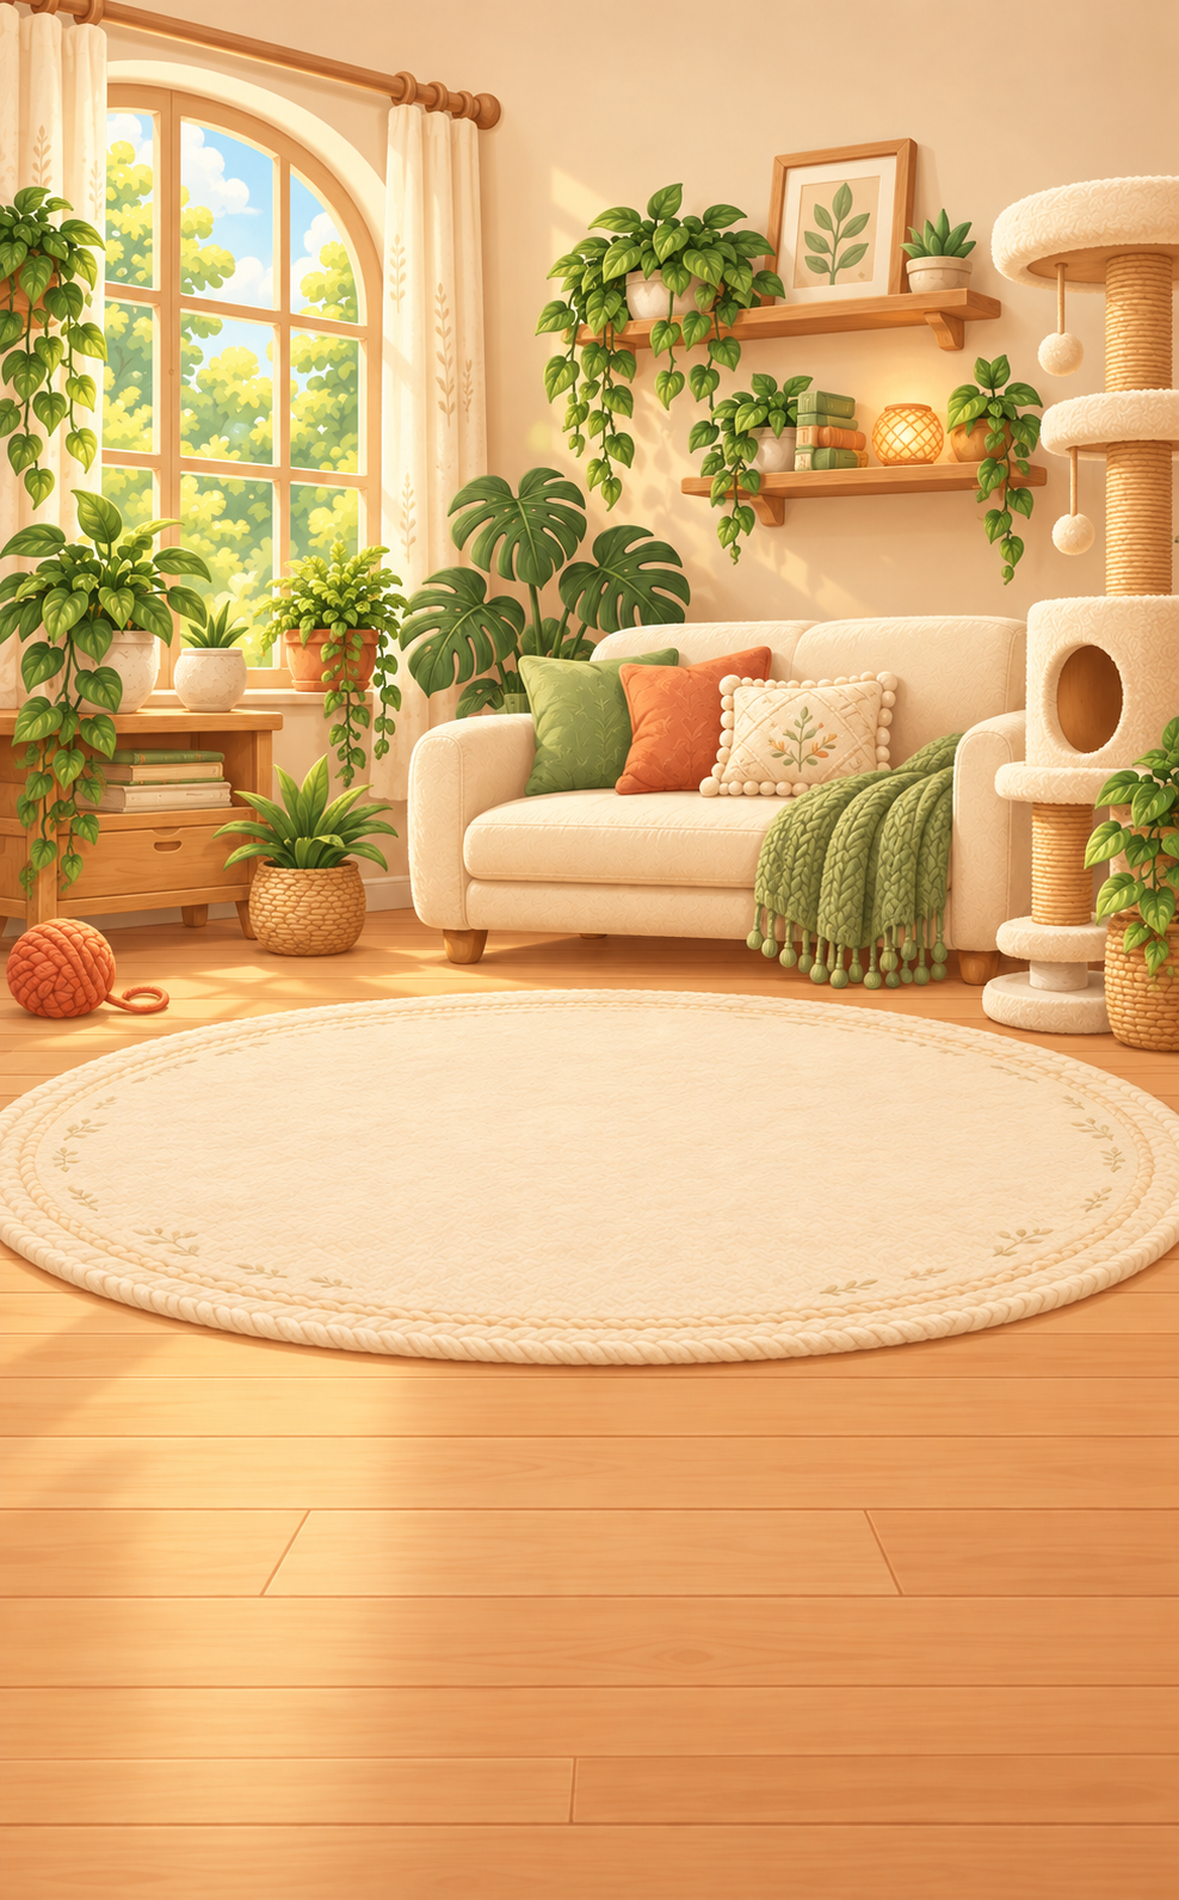
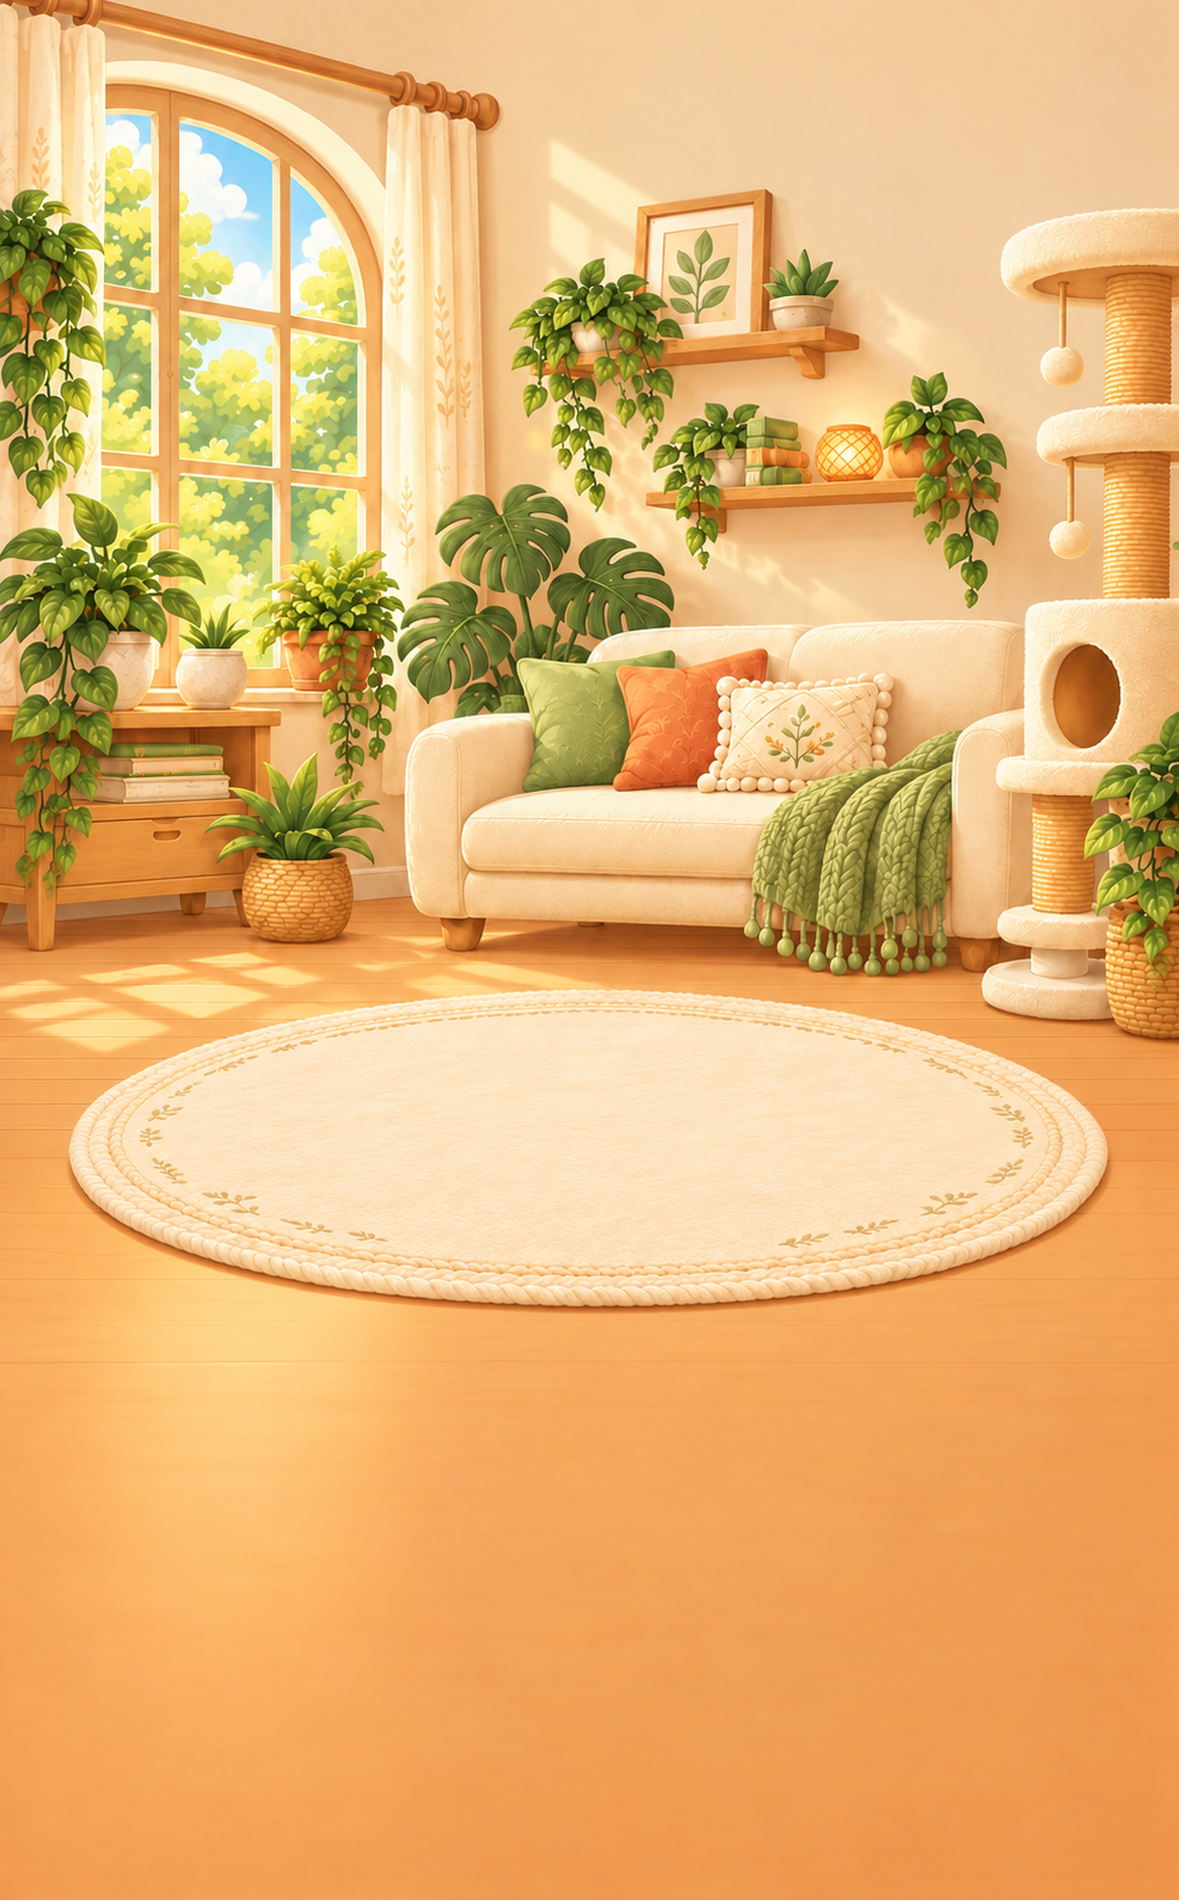
Extend home and encounter room backgrounds

diff --git a/assets/ui-records/provenance/prompts-bg.md b/assets/ui-records/provenance/prompts-bg.md
@@ -340,3 +340,31 @@ Prompt: Image1 is approved STYLE ONLY: soft rounded detailed painted storybook g
 Processing: Lanczos resize to exact dimensions; RGB opaque
 
 SHA256: 6bbbab99348fa2cebe759ede264ff99783e6c7146150592851edb8df63ed8cb7
+
+## UI v3 / bg/room-home.png
+
+Group C. Built-in image_gen. Generation 1, redo 0.
+Source: C:\Users\User\.codex\generated_images\01a17849-0ce3-7933-8ae2-427904148ed0\exec-e0da14fc-093d-4e7f-8028-1bb90daea87d.png
+
+Use case: stylized-concept, mobile game UI background. Generate new 1179x1900 portrait opaque illustration matching the existing room image (reference image 1), with warm cream, pale green, soft orange palette, rounded storybook forms, flat painted color and gentle upper-left light. Preserve same general room: window and curtains upper left, cozy cream sofa upper center-left, leafy plants, small bookshelf/shelf, cat tower toward upper right. Place all furniture/wall decor in upper 44% only; preserve a broad simple warm orange wooden floor below, almost no floorboard seams below 70%. A soft woven oval rug centered in floor and fully inside both side edges, modest width with visible floor left and right; keep center rug area empty for cat. Entire lower 15% must be completely flat low-contrast floor with no objects or seams. Uppermost 12% gentle uncluttered backdrop; upper-right wall area at 12-30% clear and plain for a UI button. Keep lower-right camera-button area clear. No cats, people, text, signs, labels, photorealism, lens blur, glare, strong shadows, tiny wood grain or fabric fibers. Full bleed edge-to-edge, opaque.
+Redo 1: Edit the provided room illustration. Change ONLY the rug width and the lower floor. Shrink the complete oval rug to about78% of canvas width and center it so a clearly visible strip of orange floor remains at both left and right edges. Preserve the same rug texture and design. Make wooden floor seams below vertical70% almost invisible, blending into a smooth low-contrast warm orange floor through the bottom edge. Preserve all windows, furniture, plants, shelves, colors, positions and style exactly. No new objects, no text, no cats, no photographic effects. Full canvas1179x1900 opaque portrait.
+
+Finishing: Lanczos cover resize, opaque RGB, no EXIF
+
+## UI v3 / bg/room-home-full.png
+
+Group C. Built-in image_gen. Generation 1, redo 0.
+Source: C:\Users\User\.codex\generated_images\01a17849-0ce3-7933-8ae2-427904148ed0\exec-d0b5ee57-a2c7-4ab6-95b6-d8676b0a5fb4.png
+
+Use case: stylized-concept. Create a full portrait room background 1179x2556. Image1 is room-home style/composition reference only. Preserve cozy painted game-illustration room with arch window and curtains left, cream sofa, bookshelf and greenery in top half; soft oval woven rug centered and fully inside side edges around vertical45-60%, empty rug center for a cat. Orange wooden floor continues seamlessly to the bottom edge. Keep right wall open at 12-30% for a button. The upper area through 62% should retain room scene and furniture; the lower 38% must be a flat, quiet, low-contrast orange floor for two large UI cards and four floating navigation buttons, no seams, objects, shadows, bands or color breaks. Floor is a broad gentle orange plane, lower two thirds simple. Illustrative storybook game background, rounded forms, flat painted colors, soft gradients, moderate detail, no photo, no depth blur, no lens effects, no text, no cats or people, opaque full-bleed.
+
+Finishing: Lanczos cover resize, opaque RGB, no EXIF
+
+## UI v3 / bg/room-deai-full.png
+
+Group C. Built-in image_gen. Generation 1, redo 0.
+Source: C:\Users\User\.codex\generated_images\01a17849-0ce3-7933-8ae2-427904148ed0\exec-111816d9-1422-4652-868b-f7bdf7c33d67.png
+
+Use case: stylized-concept, full-bleed mobile game background. Portrait1179x2556 opaque illustration extending same cozy room as image reference. Preserve warm illustrated room palette, softly painted shapes, cream/beige wall, pale orange floor, muted sage green accents; no photorealism. Top0-30% is bright gentle low-detail wall for UI heading. 30-62% is calm simple low-contrast wall and floor behind three cat overlays. Lower38% is quiet flat warm orange floor continuing to bottom with no seams, bands, furniture, text or objects. A window with curtain, simple bookcase and one plant may frame far outer sides only in upper 40%, but keep central overlay areas plain. No cats, no people, no letters, no logos. Soft game-storybook illustration with flat colors and gentle gradients, no lens blur, no strong shadow, no fiber texture. Full bleed.
+
+Finishing: Lanczos cover resize, opaque RGB, no EXIF

diff --git a/assets/ui-records/README.md b/assets/ui-records/README.md
@@ -102,3 +102,6 @@ Prompts: provenance/prompts-brand.md and prompts-share.md; full sources: provena
 
 ## UI v3 B: 独立ナビボタン
 Added navbtn/home-off.png, home-on.png, deai-off.png, deai-on.png, zukan-off.png, zukan-on.png, world-off.png, world-on.png (all240x240 RGBA), and glow.png320x320 RGBA. Preview: previews/ui-v3-B.png (4x2 button states plus glow). Eight final buttons; deai face eyes/mouth corrected with1 redo for each state (10 successful generations total counting initial+redo). Glow: two rejected image_gen red-fringe drafts, final smooth procedural radial alpha. Existing tabbar assets retained. All9 exact sizes, alpha, hashes and EXIF checked.
+
+## UI v3 C / C-2: home and encounter backgrounds
+Updated bg/room-home.png1179x1900; one targeted redo (two generations total) shrank rug to leave floor on both sides and softened the lower floor. Added bg/room-home-full.png1179x2556 and bg/room-deai-full.png1179x2556, opaque. The new full home preserves the approved home composition; floor continues through cards/navigation zone with low detail. Encounter full background has quiet upper overlays and floor continuing to bottom. Comparisons: previews/home-compare.png (old/new), home-full-compare.png (the upper74% side by side), deai-full-compare.png (visible62%). Contact sheet: previews/ui-v3-C.png. Four image_gen generations total for C assets, including one home redo. Existing room-deai.png was left unchanged because its top content remains appropriate; added the full-length variant to replace the lower empty page area. Existing bg/screen-zukan, screen-world, screen-shop are2556px high and showed no clear cut-off in inspected contact sheets, so left unchanged. No code changes.
